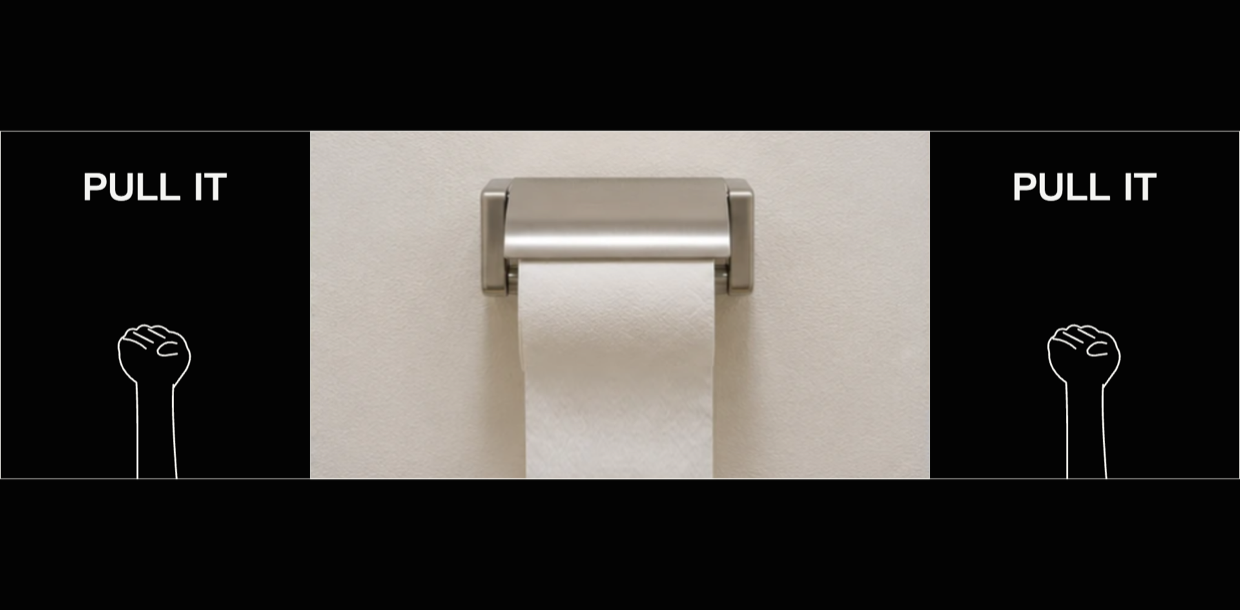
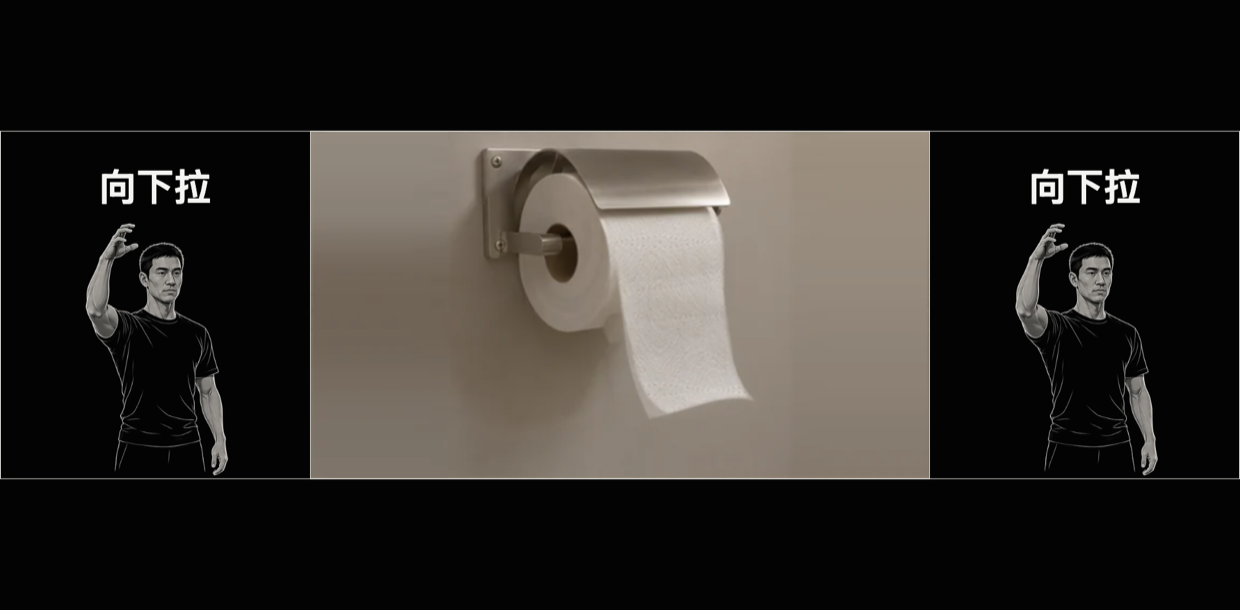
Animate gestures and paper feed with illustrated frame sequences

diff --git a/projection/guide.js b/projection/guide.js
@@ -1,184 +1,62 @@
-// Pose coordinates are drawn in a 240 by 240 practice window.
-const gesturePaths = {
-  fist: "M -13 13 Q -25 4 -24 -8 Q -26 -16 -20 -19 Q -18 -25 -12 -23 Q -8 -28 -2 -24 Q 4 -27 10 -21 Q 20 -20 22 -10 Q 26 -4 21 5 L 12 17 M -21 -17 Q -12 -16 -6 -10 M -14 -21 L -1 -14 M -4 -23 L 7 -17 M 15 -13 Q 7 -16 2 -9 Q 1 -5 7 -5 L 15 -6",
-  point:
-    "M -12 15 Q -19 7 -16 -2 L -9 -18 L -4 -43 Q -3 -51 2 -49 Q 6 -48 5 -41 L 3 -20 Q 9 -23 12 -17 Q 19 -18 20 -12 Q 27 -10 23 -1 L 13 16 M 4 -19 L 2 -12 M 12 -16 L 10 -10",
-  open: "M -13 14 Q -24 6 -25 -3 L -33 -18 Q -35 -23 -31 -23 L -17 -11 L -24 -33 Q -25 -39 -21 -38 L -9 -17 L -14 -40 Q -14 -46 -10 -44 L -2 -20 L -2 -44 Q 0 -49 3 -45 L 7 -19 L 11 -36 Q 13 -41 16 -37 L 14 -9 Q 22 -20 28 -19 Q 31 -17 26 -12 L 13 12",
-  pinch:
-    "M -12 16 Q -20 10 -21 3 Q -29 2 -25 -4 Q -30 -7 -24 -13 Q -26 -19 -18 -20 L -6 -27 Q -2 -30 3 -26 L 16 -17 Q 22 -15 23 -8 L 15 16 M -22 -13 L -9 -17 L -2 -13 M -17 -19 L -6 -23 L 1 -19 M -20 -5 L -9 -9 M 9 -12 Q 6 -20 0 -17 Q -4 -13 0 -9 L 8 -4",
-  turn: "M -14 15 Q -22 5 -20 -5 L -22 -23 Q -21 -27 -18 -26 L -13 -12 L -14 -30 Q -12 -36 -9 -31 L -5 -15 L -3 -32 Q 0 -37 2 -31 L 3 -17 L 10 -29 Q 14 -32 15 -27 L 12 -11 Q 18 -18 22 -14 Q 25 -11 20 -5 L 12 13",
-  side: "M -11 16 Q -17 8 -13 -7 L -4 -39 Q -2 -47 1 -44 L -1 -21 L 5 -43 Q 8 -48 10 -42 L 6 -17 Q 15 -25 18 -21 Q 19 -18 14 -11 L 10 13",
-};
-const guidePaths = Object.fromEntries(
-  Object.entries(gesturePaths).map(([k, d]) => [k, new Path2D(d)]),
+// Each exposure is an individually illustrated pose. Use the exhibition clock so
+// both side screens and the projected object hold the same beat when seeking.
+function loadFrameSheet(name) {
+  const sheet = new Image();
+  sheet.src = "projection/frames/" + name + ".webp";
+  return sheet;
+}
+const gestureSheets = [
+  "chop-pull",
+  "flick-turn",
+  "squeeze-point",
+  "tap-shake",
+  "rub-wave",
+].map(loadFrameSheet);
+const returnSheet = loadFrameSheet("recovery");
+const guideFramesReady = Promise.all(
+  [...gestureSheets, returnSheet].map((sheet) => sheet.decode()),
 );
-function strokePath(c, d) {
-  c.stroke(new Path2D(d));
+const openAndClose = [0, 0, 1, 2, 3, 3, 2, 1];
+const alternate = [0, 0, 1, 1, 2, 2, 3, 3];
+const flick = [0, 0, 1, 2, 3, 3, 1, 0];
+
+function guideExposure(id, time) {
+  if (id < 0) return { sheet: returnSheet, column: 0, row: 0 };
+  const period = id === 3 ? 2 : id === 7 || id === 8 ? 0.5 : 1;
+  const step = Math.floor(((time % period) * 8) / period);
+  const row = id % 2;
+  if (id < 2) {
+    return {
+      sheet: step < 4 ? gestureSheets[0] : returnSheet,
+      column: step % 4,
+      row,
+    };
+  }
+  const cycle =
+    id === 6 || id === 8 ? alternate : id === 2 ? flick : openAndClose;
+  return { sheet: gestureSheets[Math.floor(id / 2)], column: cycle[step], row };
 }
-function torso(c) {
-  strokePath(
-    c,
-    "M 48 247 Q 49 212 61 199 Q 70 190 95 184 Q 109 181 108 169 Q 109 159 103 146 Q 98 130 101 116 Q 103 100 115 95 Q 130 88 139 102 Q 147 114 141 137 Q 137 151 132 163 Q 128 177 140 182 Q 167 189 179 200 Q 190 214 191 247",
-  );
-}
-function floatingHand(c, x, y, angle, shape, bottom = 264) {
+
+function drawGuide(c, id, time, x, y, width, height) {
+  const { sheet, column, row } = guideExposure(id, time);
+  if (!sheet.complete || !sheet.naturalWidth) return;
+  const cellWidth = sheet.naturalWidth / 4,
+    cellHeight = sheet.naturalHeight / 2;
+  const scale = Math.min(width / cellWidth, height / cellHeight);
+  const w = cellWidth * scale,
+    h = cellHeight * scale;
   c.save();
-  c.translate(x, y);
-  c.rotate(angle);
-  c.stroke(guidePaths[shape]);
-  const length = Math.max(84, bottom - y + 62);
-  strokePath(
-    c,
-    "M -13 13 Q -12 36 -17 " + length + " M 12 15 Q 9 42 18 " + length,
+  c.globalCompositeOperation = "lighten";
+  c.drawImage(
+    sheet,
+    column * cellWidth,
+    row * cellHeight,
+    cellWidth,
+    cellHeight,
+    x + (width - w) / 2,
+    y + height - h,
+    w,
+    h,
   );
   c.restore();
-}
-function raisedArm(c, side, lift, wave = false) {
-  c.save();
-  c.translate(122, 193);
-  c.scale(side, 1);
-  if (!wave) {
-    const ex = 48 + 9 * lift,
-      ey = -37 + 24 * lift,
-      wx = 23 + 3 * lift,
-      wy = -104 + 71 * lift;
-    const arm = new Path2D(
-      "M 4 1 Q 17 -5 " +
-        (ex - 9) +
-        " " +
-        (ey - 2) +
-        " Q " +
-        (ex - 15) +
-        " " +
-        (ey - 22) +
-        " " +
-        (wx - 5) +
-        " " +
-        (wy + 6) +
-        " L " +
-        (wx + 5) +
-        " " +
-        (wy + 1) +
-        " Q " +
-        (ex + 11) +
-        " " +
-        (ey - 15) +
-        " " +
-        (ex + 12) +
-        " " +
-        ey +
-        " Q " +
-        (ex + 14) +
-        " " +
-        (ey + 11) +
-        " 23 24 Q 10 36 0 37",
-    );
-    c.fillStyle = "#030303";
-    c.fill(arm);
-    c.stroke(arm);
-    c.translate(wx, wy);
-    c.rotate(-0.24);
-    c.scale(0.34, 0.38);
-    c.fill(guidePaths.fist);
-    c.stroke(guidePaths.fist);
-    c.restore();
-    return;
-  }
-  const a = -0.92 + 1.85 * lift;
-  c.rotate(a);
-  c.fillStyle = "#030303";
-  c.beginPath();
-  c.moveTo(3, 9);
-  c.quadraticCurveTo(18, -10, 24, -43);
-  c.lineTo(28, -83);
-  c.lineTo(48, -81);
-  c.lineTo(45, -33);
-  c.quadraticCurveTo(46, 2, 18, 34);
-  c.fill();
-  c.stroke();
-  c.translate(39, -91);
-  c.scale(0.64, 0.68);
-  c.fill(guidePaths.open);
-  c.stroke(guidePaths.open);
-  c.restore();
-}
-function drawGuide(c, id, t) {
-  const beat = t * Math.PI * 2,
-    swing = (1 - Math.cos(beat)) / 2;
-  c.lineWidth = 1.25;
-  c.lineJoin = "round";
-  c.lineCap = "round";
-  c.strokeStyle = "#f8f7f2";
-  c.fillStyle = "#030303";
-  switch (id) {
-    case -1:
-      torso(c);
-      break;
-    case 0:
-      torso(c);
-      raisedArm(c, 1, swing);
-      break;
-    case 1:
-      floatingHand(c, 120, 110 + 103 * swing, -0.025, "fist");
-      break;
-    case 2: {
-      const x = 42 + 152 * swing,
-        y = 210 - 94 * swing;
-      floatingHand(c, x, y, -1.17 + 0.57 * swing, "pinch", 325);
-      break;
-    }
-    case 3:
-      floatingHand(
-        c,
-        119,
-        155,
-        Math.sin(beat) * 0.57,
-        swing > 0.55 ? "pinch" : "turn",
-      );
-      break;
-    case 4:
-      floatingHand(
-        c,
-        120,
-        151 + 6 * swing,
-        -0.11,
-        swing > 0.48 ? "fist" : "turn",
-      );
-      break;
-    case 5:
-      floatingHand(
-        c,
-        120,
-        151 + 20 * swing,
-        -0.08,
-        swing > 0.44 ? "fist" : "point",
-      );
-      break;
-    case 6:
-      torso(c);
-      raisedArm(c, -1, swing);
-      raisedArm(c, 1, 1 - swing);
-      break;
-    case 7:
-      floatingHand(
-        c,
-        119 + 11 * Math.sin(beat * 2),
-        147,
-        0.5 * Math.sin(beat * 2),
-        "fist",
-      );
-      break;
-    case 8:
-      floatingHand(c, 116, 160 + 8 * Math.sin(beat * 2), 0.28, "side");
-      c.save();
-      c.translate(240, 0);
-      c.scale(-1, 1);
-      floatingHand(c, 116, 160 - 8 * Math.sin(beat * 2), 0.28, "side");
-      c.restore();
-      break;
-    case 9:
-      torso(c);
-      raisedArm(c, 1, swing, true);
-      break;
-  }
 }

diff --git a/projection/objects.js b/projection/objects.js
@@ -3,7 +3,7 @@ const W = 512,
   H = 341;
 const plates = [];
 const photoOrder = [
-  0, 1, 2, 3, 4, 5, 6, 7, -1, 8, 9, 10, 11, 12, 13, 14, 15, 16, 17, 18, 19, 20,
+  0, 1, 2, 3, -1, 5, 6, 7, -1, 8, 9, 10, 11, 12, 13, 14, 15, 16, 17, 18, 19, 20,
   21, 22, 23, 24, 25, -1, 26, 26,
 ];
 const plateLoad = Promise.all(
@@ -36,7 +36,20 @@ const plateLoad = Promise.all(
 );
 const pose = new Image();
 pose.src = "projection/poses.webp";
-const atlasesReady = Promise.all([plateLoad, pose.decode()]);
+const feedSheet = loadFrameSheet("paper-feed");
+const atlasesReady = Promise.all([
+  plateLoad,
+  pose.decode(),
+  guideFramesReady,
+  feedSheet.decode(),
+]);
+
+// One second per pull. The hand returns open while the object holds its new position.
+function paidOut(t) {
+  const second = Math.floor(t);
+  const fraction = Math.min(1, Math.max(0, (t - second - 0.12) / 0.35));
+  return Math.min(4, second + fraction * fraction * (3 - 2 * fraction));
+}
 function poseImage(c, k) {
   c.drawImage(
     pose,
@@ -187,7 +200,6 @@ function objectFrame(id, scene, t) {
   c.lineCap = "round";
   c.lineJoin = "round";
   const motions = {
-    4: [[256, 204, 0, 18 * beat, 105, 130]],
     6: [
       [250, 147, 27 * swing, -8 * beat, 92, 106],
       [245, 195, 37 * swing, -18 * beat, 76, 54],
@@ -339,7 +351,7 @@ function objectFrame(id, scene, t) {
     }
     case 3: {
       const pitch = 22,
-        yEnd = 302 - (Math.floor(t) + beat) * 60;
+        yEnd = 302 - paidOut(t) * 60;
       c.save();
       c.beginPath();
       c.rect(0, 0, W, Math.max(6, yEnd));
@@ -360,14 +372,25 @@ function objectFrame(id, scene, t) {
       break;
     }
     case 4: {
-      const h = 36 + beat * 73;
-      c.drawImage(img, 178, 232, 158, 61, 178, 227, 158, h + 32);
-      line(c, 179, 227 + h + 32, 334, 227 + h + 32, 1, "#bdb5aa");
+      const frame = Math.round((30 * paidOut(t)) / 4);
+      const width = feedSheet.naturalWidth / 6,
+        height = feedSheet.naturalHeight / 6;
+      c.drawImage(
+        feedSheet,
+        (frame % 6) * width,
+        Math.floor(frame / 6) * height,
+        width,
+        height,
+        0,
+        10,
+        W,
+        H - 20,
+      );
       break;
     }
     case 5:
       c.fillStyle =
-        "rgba(10,18,66," + (Math.floor(t * 2) % 2 ? 0.74 : 0.04) + ")";
+        "rgba(10,18,66," + (Math.floor(t + 0.56) % 2 ? 0.74 : 0.04) + ")";
       c.fillRect(0, 0, W, H);
       break;
     case 6:

diff --git a/projection/player.js b/projection/player.js
@@ -4,10 +4,11 @@ const art = el("art"),
   film = el("film"),
   audio = new ExhibitAudio();
 
+const requestedStart = Number(new URLSearchParams(location.search).get("t"));
 const state = {
   playing: false,
   started: false,
-  time: 0,
+  time: requestedStart > 0 && requestedStart < runtime ? requestedStart : 0,
   anchor: 0,
   epoch: 0,
   rate: 1,
@@ -53,17 +54,9 @@ function type(c, text, x, y, font) {
   c.fillText(text, x, y);
 }
 function actor(x, y, w, h, s, time, labels = true) {
-  ctx.save();
-  ctx.beginPath();
-  ctx.rect(x, y, w, h);
-  ctx.clip();
-  const center = x + w / 2,
-    full = s.id < 0 || s.scene < 0,
-    scale = Math.min(h / 236, w / (full ? 217 : 150));
-  ctx.translate(center - 120 * scale, y + h - 240 * scale);
-  ctx.scale(scale, scale);
-  drawGuide(ctx, s.id, time);
-  ctx.restore();
+  const reserve = labels || s.id < 0 ? h * 0.26 : 0;
+  drawGuide(ctx, s.id, time, x, y + reserve, w, h - reserve);
+
   if (labels) {
     drawPrompt(x, y, w, h, s);
   }
@@ -308,6 +301,8 @@ async function play() {
   if (state.time >= runtime - 0.05)
     jump(state.loop >= 0 ? movements[state.loop].at : 0);
   try {
+    await atlasesReady;
+    if (token !== playToken) return;
     if (state.mode) {
       film.currentTime = state.time;
       film.playbackRate = state.rate;
@@ -410,7 +405,7 @@ function localize() {
   document.querySelector(".file").textContent = u.file;
   el("file").setAttribute("aria-label", u.file);
   el("localStatus").textContent = state.source ? u.aligned : u.private;
-  document.querySelector("footer .dim").textContent = u.version + " · v2.1.0";
+  document.querySelector("footer .dim").textContent = u.version + " · v2.2.0";
   el("moves").replaceChildren();
   movements.forEach((m, id) => {
     const b = document.createElement("button");

diff --git a/index.html b/index.html
@@ -95,7 +95,7 @@
       <footer>
         <span
           >デザインあ展 neo ／ DO IT!　<span class="dim"
-            >网页研究版 · v2.1.0</span
+            >网页研究版 · v2.2.0</span
           ></span
         ><a href="https://github.com/holynova/verb-theater">GitHub ↗</a>
       </footer>

diff --git a/README.zh-CN.md b/README.zh-CN.md
@@ -2,7 +2,7 @@
 
 [中文试玩](https://holynova.github.io/verb-theater/?lang=zh) · [Play in English](https://holynova.github.io/verb-theater/?lang=en) · [制作方的展览记录](https://tha.jp/10179) · [English](README.md)
 
-跟着黑底白线的手势向下一拉，百叶窗升起。下一镜，同样的手势拉长卷纸，再下一镜，它成了床头灯的拉绳。网页对照日本「デザインあ展 neo」的《DO IT!》重建十组动作，沿用制作方 3 分 30 秒现场影片的段落和切点。公开版使用重新绘制的手势、生成的实景底图、程序动画与合成音轨。
+跟着黑底白线的手势向下一拉，百叶窗升起。下一镜，同样的手势拉长卷纸，再下一镜，它成了床头灯的拉绳。网页对照日本「デザインあ展 neo」的《DO IT!》重建十组动作，沿用制作方 3 分 30 秒现场影片的段落和切点。公开版用 48 幅人物和手部关键姿势示范十组动作，卷纸镜头随下拉逐次放纸。[逐帧动画 GIF](projection/frames/paper-feed.gif)
 
 点「开始跟练」播放全场，也可以从「动作目录」直接进入任意一段。支持变速、暂停、单段循环和全屏。「作品与对照」可以读取本机上的 THA 对应版本，切换同一时间点的网页重建、透视校正投影和原镜头。现场近景会保留画面中的观众。
 

diff --git a/README.md b/README.md
@@ -4,6 +4,8 @@
 
 Follow ten gestures in the order of the Japanese Design Ah! Exhibition neo installation. Pull down to raise a blind, unroll paper and switch a bedside light. The independent browser reconstruction follows the 3:30 THA documentation film with hand-drawn gesture cues, generated photographic plates, animated objects and synthesized sound. The chapter menu, speed control and loop switch support repeated practice.
 
+The ten gestures use 48 illustrated key poses. Each downward tug feeds more paper while the returning hand opens. [View the animated GIF](projection/frames/paper-feed.gif).
+
 ![DO IT! · Pull](assets/screenshot.png)
 
 Open `index.html` directly or run `npm run build` for the static site in `dist/`. GitHub Pages serves the root of `main`. The earlier game is available at [reel.html](https://holynova.github.io/verb-theater/reel.html).
